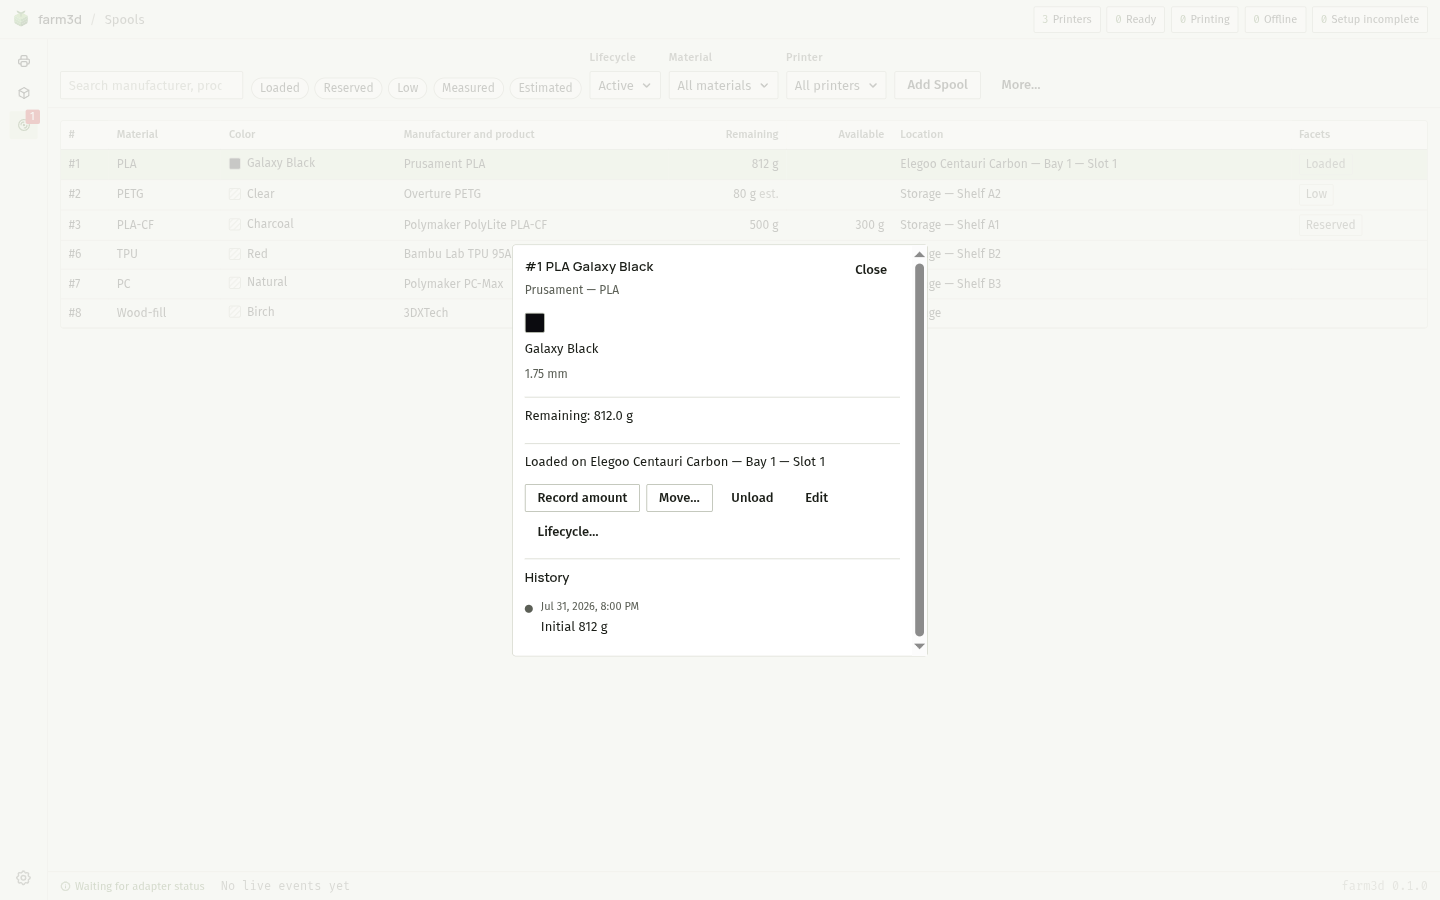
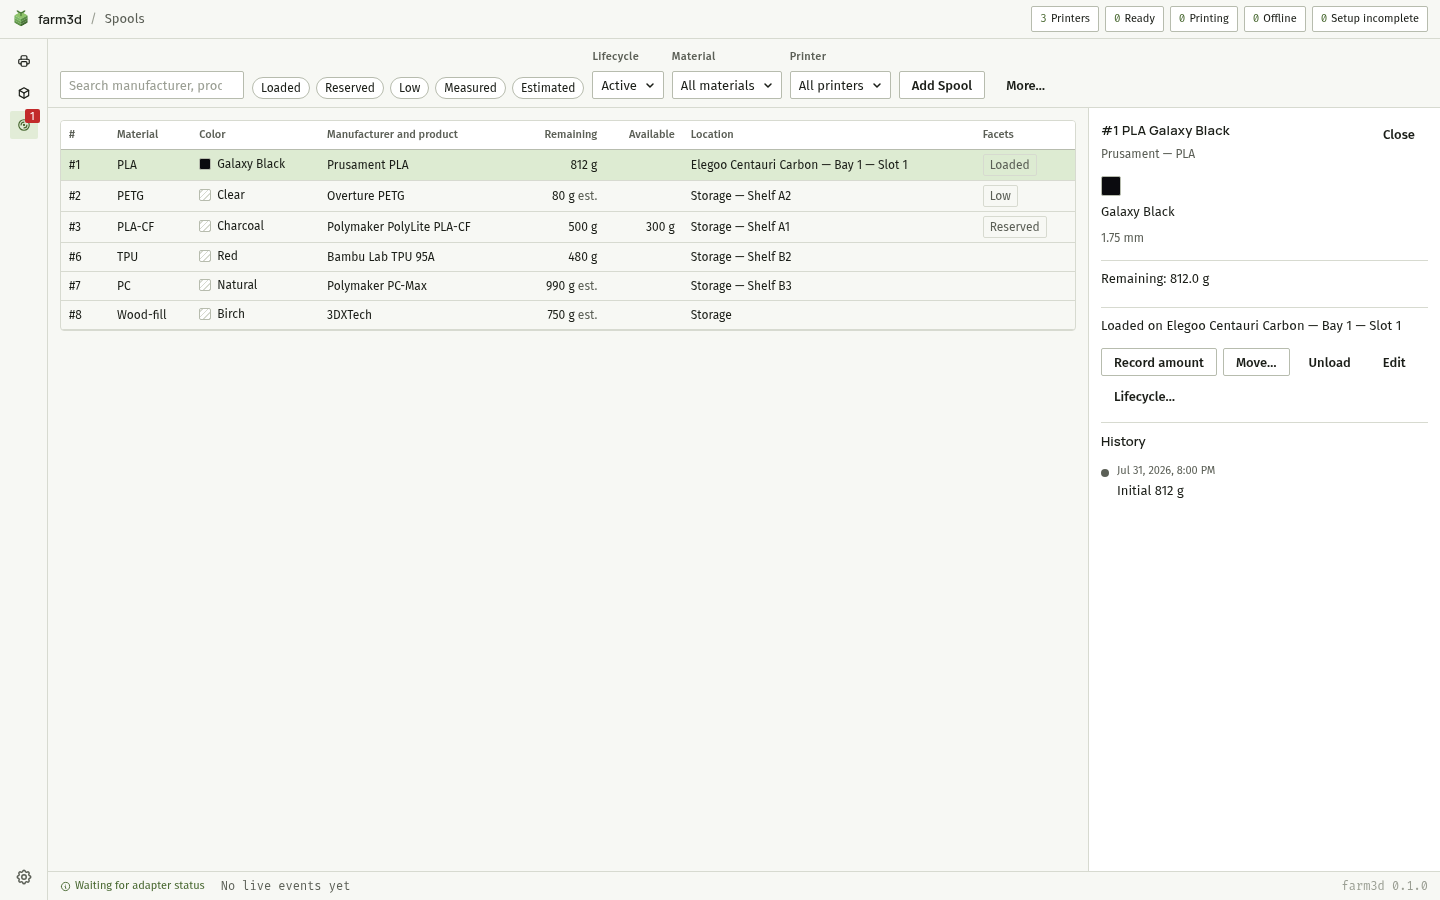
fix: dock Spool detail inline on wide windows
The Spool detail dock was stuck in overlay mode regardless of window
width: SpoolInventory.tsx's `workspace` ref lived inside
`<Show when={spoolState.loaded}>`, which is false at mount, so the
onMount that measures width and attaches the ResizeObserver bailed
out (`if (!workspace) return;`) and `dockMode` never left its
"overlay" default. p3-detail-history-1440x900.png (from Task 12's
verification pass) showed the bug: a centered overlay card instead
of the right-side inline dock the doc's prose described.

Fix: render the workspace container unconditionally, moving <Show>
inside it, mirroring PrinterDashboard.tsx's pattern -- same 66rem
inline/overlay threshold rule, now actually reachable while the
inventory is still loading at mount.

Adds a regression test (inventory not yet loaded at mount, wide
workspace, dock renders inline once loaded) and recaptures both
p3-detail-history screenshots (1440x900 now inline, new 1024x700
confirming overlay is preserved below the threshold), with the
verification doc updated to match and a new "Deviations and
findings" entry documenting the bug and its fix.

Claude-Session: https://claude.ai/code/session_01TLF4He7mvkLKySGPjD6Am9

diff --git a/src/screens/SpoolInventory.test.tsx b/src/screens/SpoolInventory.test.tsx
@@ -1,3 +1,4 @@
+import { createStore } from "solid-js/store";
 import { cleanup, fireEvent, render, screen } from "@solidjs/testing-library";
 import { afterEach, beforeEach, describe, expect, it, vi } from "vitest";
 import { SpoolInventory } from "./SpoolInventory";
@@ -6,11 +7,29 @@ import type { SpoolRecord } from "../generated/contracts/domain/SpoolRecord";
 
 const loadInventory = vi.fn();
 const loadHistory = vi.fn();
-let spools: SpoolRecord[] = [];
+
+interface MockSpoolStoreState {
+  spools: SpoolRecord[];
+  tares: unknown[];
+  loaded: boolean;
+  pending: Record<string, unknown>;
+}
+
+/** A real Solid store (not a plain getter) so `<Show when={spoolState.loaded}>`
+ *  reacts when a test flips `loaded` after the component has already
+ *  mounted -- exercising the same timing the real `spool-store.ts` module
+ *  produces while `loadInventory()`'s promise is still in flight. */
+const [spoolStoreState, setSpoolStoreState] = createStore<MockSpoolStoreState>({
+  spools: [], tares: [], loaded: true, pending: {},
+});
+
+function setSpools(list: SpoolRecord[]) {
+  setSpoolStoreState({ spools: list });
+}
 
 vi.mock("../spools/spool-store", () => ({
   get spoolState() {
-    return { spools, tares: [], loaded: true, pending: {} };
+    return spoolStoreState;
   },
   loadInventory: (...args: unknown[]) => loadInventory(...args),
   spoolStoreError: () => null,
@@ -54,28 +73,29 @@ beforeEach(() => {
 afterEach(() => {
   cleanup();
   vi.clearAllMocks();
-  spools = [];
+  vi.unstubAllGlobals();
+  setSpoolStoreState({ spools: [], tares: [], loaded: true, pending: {} });
 });
 
 describe("SpoolInventory", () => {
   it("shows the fixture rows", () => {
-    spools = [
+    setSpools([
       spool({ id: "spl-1", spoolNumber: 1 }),
       spool({ id: "spl-2", spoolNumber: 2, colorName: "Clear" }),
-    ];
+    ]);
     render(() => <SpoolInventory />);
     expect(screen.getByText("#1")).toBeInTheDocument();
     expect(screen.getByText("#2")).toBeInTheDocument();
   });
 
   it("narrows the rows when the Low and Estimated chips are toggled", async () => {
-    spools = [
+    setSpools([
       spool({ id: "spl-1", spoolNumber: 1 }),
       spool({
         id: "spl-2", spoolNumber: 2,
         facets: { loaded: false, reserved: false, low: true, confidence: "estimated" },
       }),
-    ];
+    ]);
     render(() => <SpoolInventory />);
     expect(screen.getByText("#1")).toBeInTheDocument();
     expect(screen.getByText("#2")).toBeInTheDocument();
@@ -97,7 +117,7 @@ describe("SpoolInventory", () => {
   });
 
   it("shows 'No Spools match' and Clear filters when the filters exclude everything", async () => {
-    spools = [spool({ id: "spl-1", spoolNumber: 1 })];
+    setSpools([spool({ id: "spl-1", spoolNumber: 1 })]);
     render(() => <SpoolInventory />);
     await fireEvent.click(screen.getByRole("button", { name: "Low" }));
     expect(screen.getByText("No Spools match")).toBeInTheDocument();
@@ -105,17 +125,17 @@ describe("SpoolInventory", () => {
   });
 
   it("shows 'No Spools yet' and Add Spool with no Spools at all", () => {
-    spools = [];
+    setSpools([]);
     render(() => <SpoolInventory />);
     expect(screen.getByText("No Spools yet")).toBeInTheDocument();
     expect(screen.getAllByRole("button", { name: "Add Spool" }).length).toBeGreaterThan(0);
   });
 
   it("sets the deep link and opens the detail dock when a row is selected by keyboard", async () => {
-    spools = [
+    setSpools([
       spool({ id: "spl-1", spoolNumber: 1 }),
       spool({ id: "spl-2", spoolNumber: 2 }),
-    ];
+    ]);
     render(() => <SpoolInventory />);
     const grid = screen.getByRole("grid", { name: "Spools" });
     grid.focus();
@@ -126,5 +146,39 @@ describe("SpoolInventory", () => {
     });
     expect(window.location.hash).toBe("#nav=v1/spools/spool/spl-1");
     expect(await screen.findByText("#1 PLA Black")).toBeInTheDocument();
+  });
+
+  it("keeps the dock inline on a wide workspace even when the inventory hasn't loaded yet at mount", async () => {
+    // Regression test: the workspace `ref` used to live inside
+    // `<Show when={spoolState.loaded}>`, so the `onMount` that measures the
+    // workspace width and attaches the `ResizeObserver` bailed out
+    // (`if (!workspace) return`) whenever the inventory was still loading
+    // at mount -- exactly the case here. `dockMode` was then stuck at its
+    // "overlay" default forever, even on a workspace wide enough for the
+    // inline dock, once the inventory (and the selected Spool) arrived.
+    class WideWorkspaceObserver {
+      constructor(private readonly callback: ResizeObserverCallback) {}
+      observe(target: Element) {
+        this.callback([{ target, contentRect: { width: 1440 } } as ResizeObserverEntry], this as unknown as ResizeObserver);
+      }
+      disconnect() {}
+      unobserve() {}
+    }
+    vi.stubGlobal("ResizeObserver", WideWorkspaceObserver);
+
+    setSpoolStoreState({ loaded: false, spools: [] });
+    navigation.navigate({
+      version: 1, destination: "spools", selection: { kind: "spool", id: "spl-1" },
+    }, { availableDestinations: ["spools"], availableIds: [] });
+
+    render(() => <SpoolInventory />);
+    expect(screen.getByText("Loading Spools…")).toBeInTheDocument();
+    expect(screen.queryByRole("complementary")).not.toBeInTheDocument();
+    expect(screen.queryByRole("dialog")).not.toBeInTheDocument();
+
+    setSpoolStoreState({ loaded: true, spools: [spool({ id: "spl-1", spoolNumber: 1 })] });
+
+    expect(await screen.findByRole("complementary", { name: "Spool 1" })).toBeInTheDocument();
+    expect(screen.queryByRole("dialog")).not.toBeInTheDocument();
   });
 });

diff --git a/src/screens/SpoolInventory.tsx b/src/screens/SpoolInventory.tsx
@@ -227,11 +227,11 @@ export function SpoolInventory() {
           items={[{ label: "Manage tares…", onSelect: () => setTareOpen(true) }]}
         />
       </div>
-      <Show
-        when={spoolState.loaded}
-        fallback={<p class={styles.loadingNotice} role="status">Loading Spools…</p>}
-      >
-        <div ref={workspace} class={styles.workspace}>
+      <div ref={workspace} class={styles.workspace}>
+        <Show
+          when={spoolState.loaded}
+          fallback={<p class={styles.loadingNotice} role="status">Loading Spools…</p>}
+        >
           <div class={styles.content}>
             <DataTable
               label="Spools"
@@ -257,8 +257,8 @@ export function SpoolInventory() {
             />
           </div>
           <SpoolDetailDock spool={selectedSpool()} mode={dockMode()} onClose={() => goTo(null)} />
-        </div>
-      </Show>
+        </Show>
+      </div>
       <SpoolFormDialog open={addOpen()} onOpenChange={setAddOpen} />
       <TareManagerDialog open={tareOpen()} onOpenChange={setTareOpen} />
     </div>

diff --git a/docs/verification/2026-09-23-p3-spools-material-slots.md b/docs/verification/2026-09-23-p3-spools-material-slots.md
@@ -106,11 +106,17 @@ Checked, with screenshots in `docs/screenshots/p3-*.png`:
   non-matching string shows "No Spools match" and a **Clear filters**
   button, distinct from the (unshown, but code-reviewed) true empty state's
   "No Spools yet — Add Spool".
-- **Detail history** (`p3-detail-history-1440x900.png`): selecting a row
-  opens the right dock (`#nav=v1/spools/spool/spl-web-1`), showing the color
-  swatch, remaining amount, location, action row (Record amount / Move… /
-  Unload / Edit / Lifecycle…), and the `Timeline`-based History list with
-  its first "Initial 812 g" entry.
+- **Detail history** (`p3-detail-history-1440x900.png`,
+  `p3-detail-history-1024x700.png`): selecting a row opens the detail dock
+  (`#nav=v1/spools/spool/spl-web-1`), showing the color swatch, remaining
+  amount, location, action row (Record amount / Move… / Unload / Edit /
+  Lifecycle…), and the `Timeline`-based History list with its first
+  "Initial 812 g" entry. At 1440 wide it docks inline on the right, same as
+  `PrinterDashboard`'s 66rem threshold rule; at 1024 wide (below the
+  threshold) it correctly still overlays as a centered dialog. See
+  "Deviations and findings" below — the first pass of this screenshot was
+  taken before a dock-mode bug was fixed, and showed the overlay at 1440
+  wide instead.
 - **Move — swap** (`p3-move-swap-1440x900.png`): opening Move… on Spool `#2`
   (in storage), choosing Printer → "Elegoo Centauri Carbon — Bay 1" → "Slot
   1 (AMS 1) — occupied by #1 PLA Galaxy Black" surfaces "Swap: #1 PLA
@@ -316,6 +322,23 @@ verification:
   controller ledger at each task's completion line and are not repeated
   here; none of them affect the acceptance criteria above or block P7's
   consumption of the reservation primitives.
+- **Dock-mode bug found during this pass's browser verification, fixed in
+  this commit.** The first `p3-detail-history-1440x900.png` capture showed
+  the Spool detail dock as a centered overlay dialog at 1440 wide, not the
+  inline right dock the surrounding prose described. Root cause:
+  `SpoolInventory.tsx`'s `workspace` ref (the element the `onMount`
+  `ResizeObserver` measures to pick `"inline"` vs. `"overlay"`) lived inside
+  `<Show when={spoolState.loaded}>`, which is false at mount — so the
+  observer was never attached, and `dockMode` stayed at its `"overlay"`
+  default forever, regardless of actual window width, once the inventory
+  (and a deep-linked Spool) loaded in. Fixed by rendering the `workspace`
+  container unconditionally (moving `<Show>` inside it), mirroring
+  `PrinterDashboard.tsx`'s pattern, so the same 66rem threshold rule now
+  actually takes effect. A regression test was added to
+  `SpoolInventory.test.tsx` covering exactly this timing (inventory not yet
+  loaded at mount, wide workspace, dock renders inline once loaded). Both
+  `p3-detail-history-*.png` screenshots above were recaptured after the fix
+  and now correctly show inline-at-1440/overlay-at-1024.
 
 ## Files changed in this task
 
@@ -327,8 +350,15 @@ verification:
 - `docs/superpowers/plans/2026-09-16-complete-v1-implementation-approach.md`:
   marked the "Slot count/topology source" and "Weight precision/material
   taxonomy" known-unknowns resolved, pointing at spec D1, D2, and D4.
-- `docs/screenshots/p3-*.png` (new, 10 files): the visual/keyboard
-  verification screenshots listed above.
+- `docs/screenshots/p3-*.png` (new, 11 files): the visual/keyboard
+  verification screenshots listed above, including the fix-round-1
+  recapture of `p3-detail-history-1440x900.png` and the new
+  `p3-detail-history-1024x700.png`.
 - `docs/verification/2026-09-23-p3-spools-material-slots.md` (this file).
+- `src/screens/SpoolInventory.tsx`: fix-round-1 dock-mode bug fix (render
+  `workspace` unconditionally so the `ResizeObserver` attaches even while
+  the inventory is still loading at mount).
+- `src/screens/SpoolInventory.test.tsx`: fix-round-1 regression test for the
+  above.
 - 20 pre-existing Rust source/test files, reformatted only, in the separate
   `style: apply cargo fmt` commit (deferred from Task 4).
